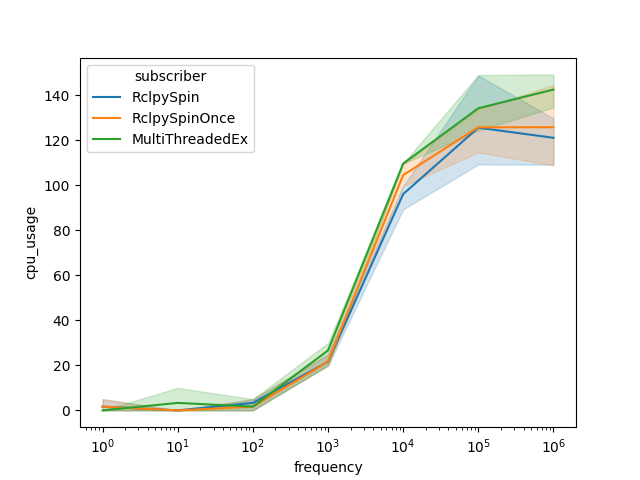
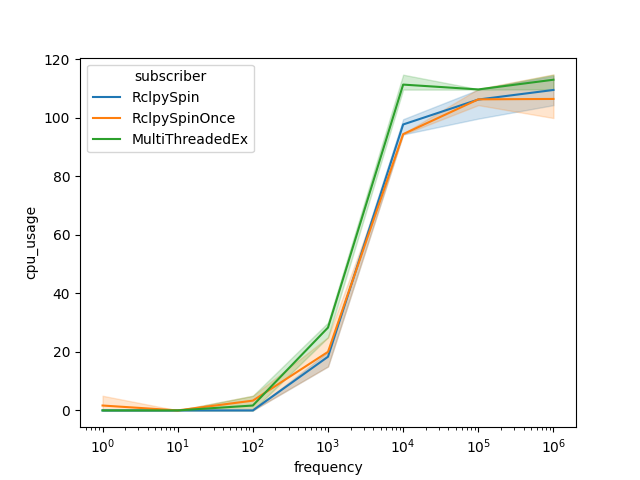
more draining for better results

diff --git a/rclpy_listeners/instrumentation/measure.py b/rclpy_listeners/instrumentation/measure.py
@@ -18,7 +18,7 @@ from rclpy_listeners.std_m_rclpy_spin_once import RclpySpinOnce
 import seaborn as sns
 
 
-def drain_queue(duration_s, args=None):
+def run_listener(duration_s, args=None):
     thread_listener = RclpySpin(args=args)
     thread_listener.start()
     time.sleep(duration_s)
@@ -27,7 +27,14 @@ def drain_queue(duration_s, args=None):
     thread_listener.stop()
     rclpy.shutdown()
     thread_listener.join()
-    time.sleep(duration_s)
+    return n_messages_received
+
+
+def drain_queue(duration_s, args=None):
+    n_messages_received = run_listener(duration_s, args)
+    while n_messages_received:
+        n_messages_received = run_listener(duration_s, args)
+    time.sleep(.1)
 
 
 def make_measurement(duration_s, rate_hz, Sub, args=None):

diff --git a/rclpy_listeners/rclpy_listeners/std_m_base.py b/rclpy_listeners/rclpy_listeners/std_m_base.py
@@ -1,5 +1,5 @@
 import threading
-
+import time
 import psutil
 
 from rclpy.node import Node
@@ -30,6 +30,7 @@ class SubscriberThread(threading.Thread):
         super(SubscriberThread, self).__init__()
         self._stop_event = threading.Event()
         self._args = args
+        self.subscriber = None
 
     def run(self):
         raise NotImplementedError
@@ -38,6 +39,8 @@ class SubscriberThread(threading.Thread):
         self._stop_event.set()
 
     def get_received_messages(self):
+        while not self.subscriber:
+            time.sleep(.1)
         return self.subscriber.received_messages
 
     def get_cpu_usage(self):
